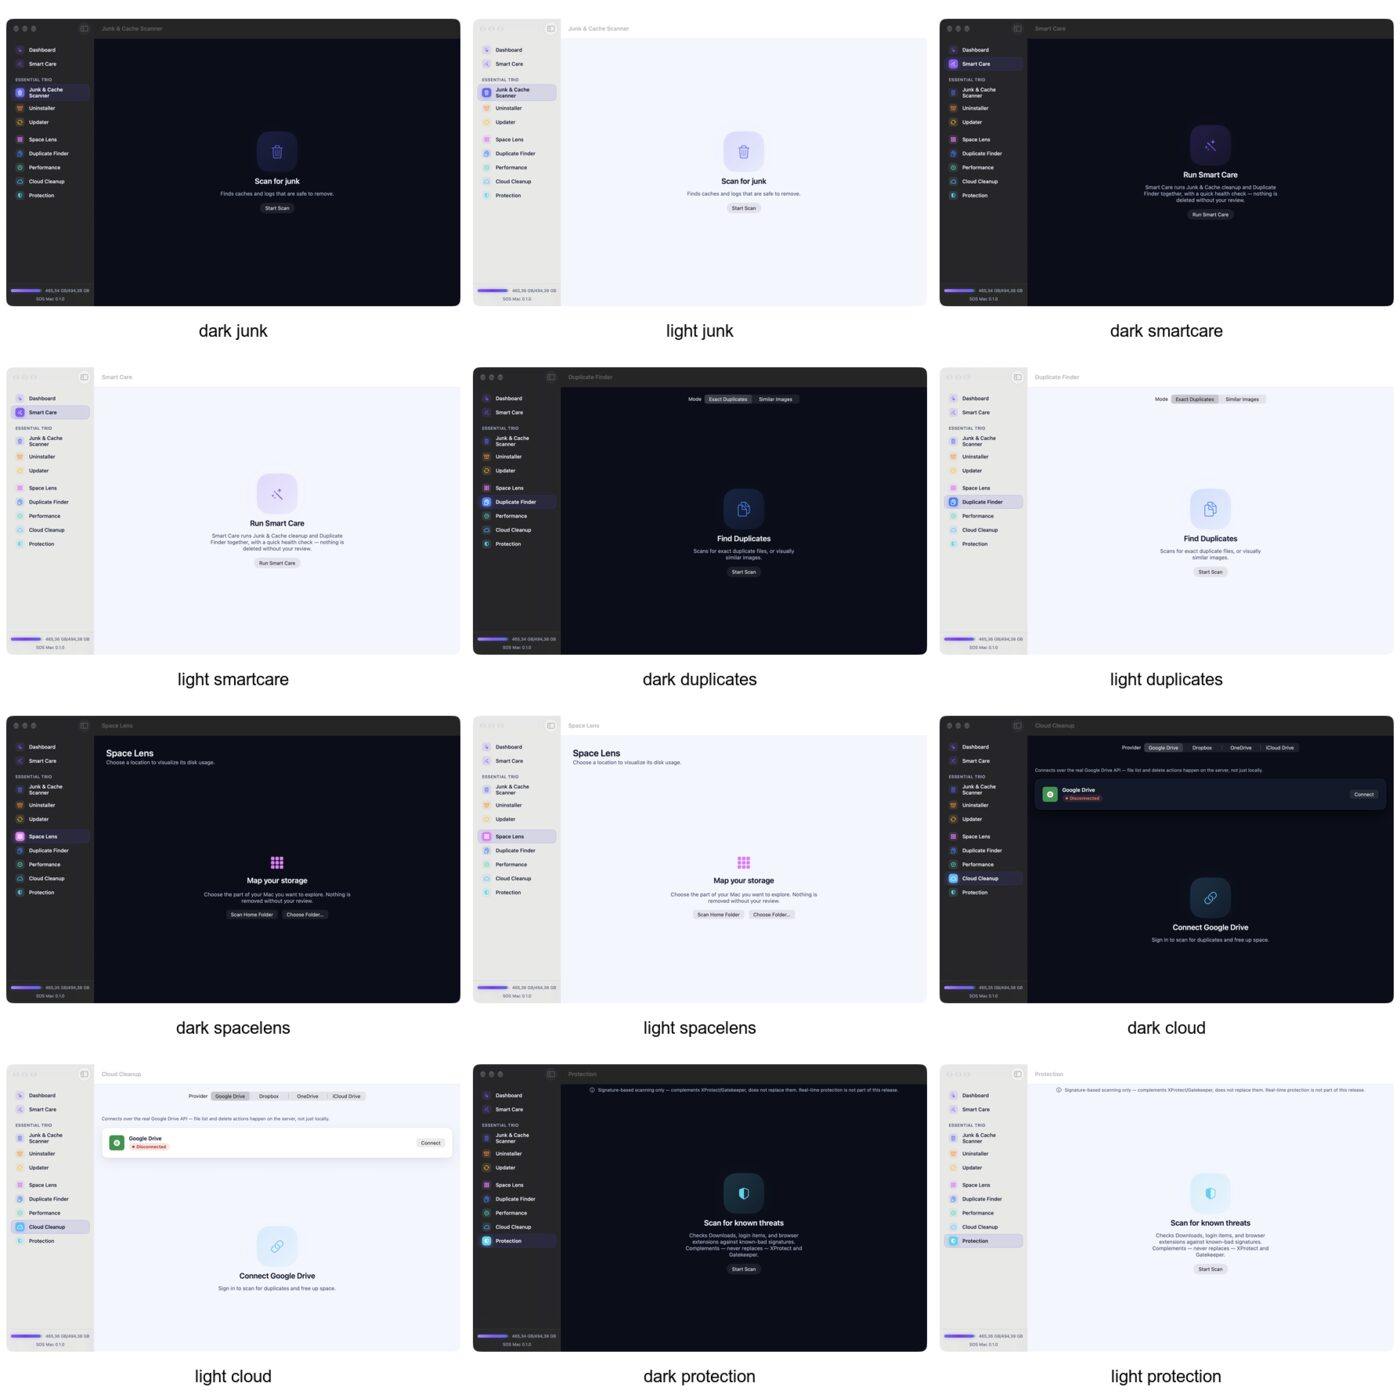
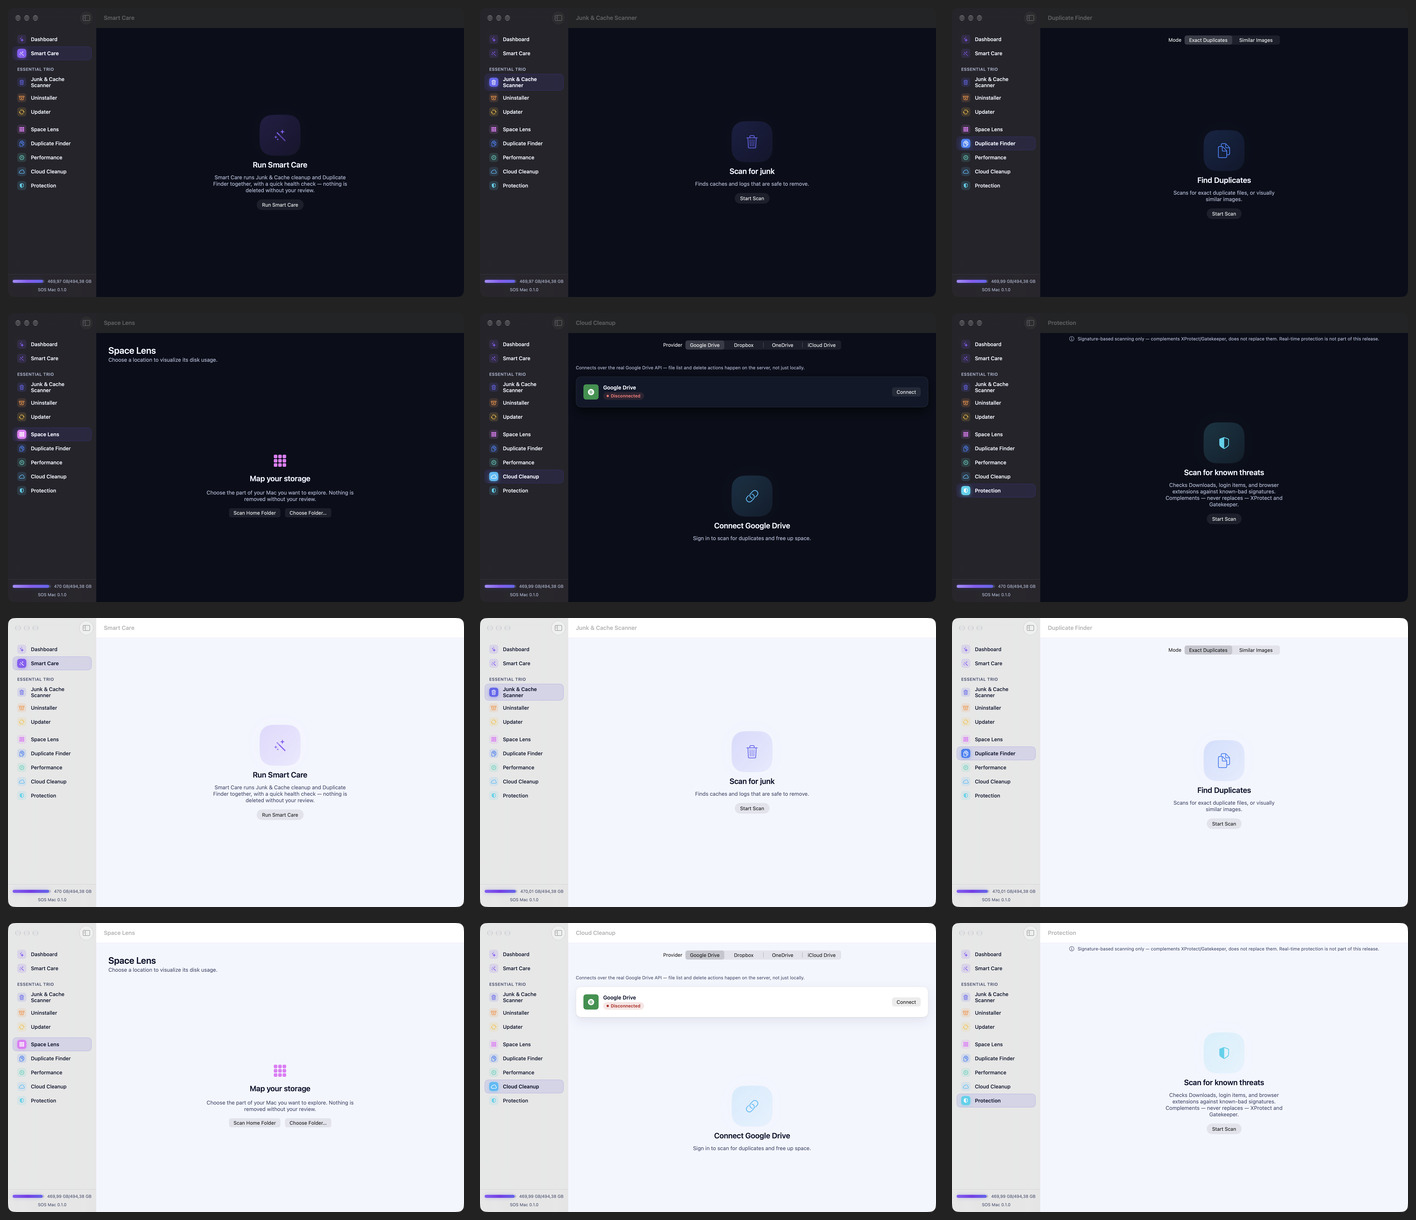
feat(design-system): apply the Designer's final Palette C light tokens (OD-1)
warning light #B45309 -> #A14A06 (>= 5.02:1 on every surface, X4 withdrawn),
treemapText light #1A1333 -> #141A33, light elevation ink #141A33.
Spec token table + Appendix C updated; appearance-resolution lock now pins
warning and treemapText; light gallery re-captured with the final values.

diff --git a/App/DesignSystem/Theme.swift b/App/DesignSystem/Theme.swift
@@ -5,9 +5,11 @@ import AppKit
 ///
 /// Source of truth: `docs/superpowers/specs/2026-11-26-ui-migration-palette-c-design.md`
 /// §2.3–2.8 and Appendix C (dark values from `docs/redesign/prototype/tokens.css`
-/// `data-palette="c"`; light values marked `[D]` in the spec are derived and still
-/// await the Designer's confirmation, OD-1). Structure follows the Designer's
-/// `docs/redesign/prototype/tokens/Theme.swift`.
+/// `data-palette="c"`; light values confirmed by the Designer's final Palette C
+/// light block, 2026-11-26 — OD-1 closed: `warning` light `#A14A06`,
+/// `treemapText` light `#141A33`, light elevation ink `#141A33`; every other
+/// light value matched the table). Structure follows the Designer's
+/// `tokens/Theme.swift`.
 ///
 /// Inside this type the names `Color`, `Gradient` and `Font` refer to the nested token
 /// namespaces, so SwiftUI's own types are always written `SwiftUI.Color` etc.
@@ -53,8 +55,8 @@ enum Theme {
         static let textTertiary = SwiftUI.Color.adaptive(light: SwiftUI.Color(hex: "#7C84A3"), dark: SwiftUI.Color(hex: "#6E7799"))
         /// --success · dark #34D399 · light #047857
         static let success = SwiftUI.Color.adaptive(light: SwiftUI.Color(hex: "#047857"), dark: SwiftUI.Color(hex: "#34D399"))
-        /// --warning · dark #F59E0B · light #B45309
-        static let warning = SwiftUI.Color.adaptive(light: SwiftUI.Color(hex: "#B45309"), dark: SwiftUI.Color(hex: "#F59E0B"))
+        /// --warning · dark #F59E0B · light #A14A06 (Designer final light; 5.02–6.00:1 on every surface)
+        static let warning = SwiftUI.Color.adaptive(light: SwiftUI.Color(hex: "#A14A06"), dark: SwiftUI.Color(hex: "#F59E0B"))
         /// --danger · dark #F87171 · light #B91C1C
         static let danger = SwiftUI.Color.adaptive(light: SwiftUI.Color(hex: "#B91C1C"), dark: SwiftUI.Color(hex: "#F87171"))
         /// --danger-fill · dark #B91C1C · light #B91C1C
@@ -75,8 +77,8 @@ enum Theme {
         static let treemap7 = SwiftUI.Color.adaptive(light: SwiftUI.Color(hex: "#E9E5FF"), dark: SwiftUI.Color(hex: "#353A6E"))
         /// --tm-8 · dark #2D2A55 · light #ECE7FA
         static let treemap8 = SwiftUI.Color.adaptive(light: SwiftUI.Color(hex: "#ECE7FA"), dark: SwiftUI.Color(hex: "#2D2A55"))
-        /// --tm-text · dark #F4F2FF · light #1A1333
-        static let treemapText = SwiftUI.Color.adaptive(light: SwiftUI.Color(hex: "#1A1333"), dark: SwiftUI.Color(hex: "#F4F2FF"))
+        /// --tm-text · dark #F4F2FF · light #141A33 (Designer final light)
+        static let treemapText = SwiftUI.Color.adaptive(light: SwiftUI.Color(hex: "#141A33"), dark: SwiftUI.Color(hex: "#F4F2FF"))
     }
 
     // MARK: - Derived tokens (spec §2.4)
@@ -219,7 +221,7 @@ enum Theme {
     }
 
     /// Two-layer soft elevation — apply via the `.elevation(_:)` view modifier, not by
-    /// reading these directly. Dark layers are black-based; light layers are `#1A1333`-based (spec §2.4).
+    /// reading these directly. Dark layers are black-based; light layers are `#141A33`-based (spec §2.4).
     enum Elevation {
         enum Level { case raised, float }
 
@@ -229,7 +231,7 @@ enum Theme {
             let y: CGFloat
         }
 
-        private static let lightInk = SwiftUI.Color(hex: "#1A1333")
+        private static let lightInk = SwiftUI.Color(hex: "#141A33")
 
         static func layers(for level: Level, isDark: Bool) -> (near: Layer, far: Layer) {
             switch (level, isDark) {

diff --git a/SOSMacTests/ThemeContrastTests.swift b/SOSMacTests/ThemeContrastTests.swift
@@ -68,6 +68,8 @@ struct ThemeContrastTests {
         ("bgBase", C.bgBase, "#F4F6FF", "#0A0E1A"),
         ("card", C.card, "#FFFFFF", "#111829"),
         ("textPrimary", C.textPrimary, "#141A33", "#EEF2FF"),
+        ("warning", C.warning, "#A14A06", "#F59E0B"),
+        ("treemapText", C.treemapText, "#141A33", "#F4F2FF"),
     ])
     func adaptiveResolvesPerAppearance(name: String, token: SwiftUI.Color, lightHex: String, darkHex: String) {
         func channels(_ hex: String) -> [Double] {

diff --git a/docs/superpowers/specs/2026-11-26-ui-migration-palette-c-design.md b/docs/superpowers/specs/2026-11-26-ui-migration-palette-c-design.md
@@ -8,7 +8,7 @@ Companion implementation plan: [`docs/superpowers/plans/2026-11-26-ui-migration-
 
 > **Tóm tắt (VN)**
 > - Spec này chuyển SOS Mac sang UI mới của Designer, dùng **Palette C "Midnight Glass"** (dark + light) thay cho Palette A. Giữ nguyên tên token `Theme.Color.*`, chỉ đổi giá trị.
-> - Palette C **light chưa đầy đủ** ở nguồn: report chỉ cho 12/28 token và prototype chưa từng render C light (chỉ có C dark). Các giá trị còn lại được suy ra theo quy tắc, gắn nhãn `[D]` và cần Designer/Phương chốt (§2.2, §10 OD-1).
+> - Palette C **light chưa đầy đủ** ở nguồn: report chỉ cho 12/28 token và prototype chưa từng render C light (chỉ có C dark). Các giá trị còn lại được suy ra theo quy tắc, gắn nhãn `[D]`; Designer đã chốt block light cuối cùng ngày 2026-11-26 (§2.2, §10 OD-1 đã đóng).
 > - Phạm vi: shell mới, component dùng chung, 10 màn + menu bar, và 4 nhóm sửa an toàn/dữ liệu (hộp xác nhận, khoá bản Keep ở Smart Care, ghi "Folder"/"At least…" ở Uninstaller, giữ kết quả khi rời màn). Không gồm việc engine trong `needs-engine-work.html`.
 > - Có **20 open decisions** cần Phương chốt (§10), mỗi mục kèm đề xuất. Hai mục Phương hỏi trực tiếp: OD-a (Similar Images) và OD-b (tổng size từng bộ duplicate).
 > - Đã verify: tương phản (tính lại bằng script, khớp report), API Apple (SDK macOS 27.0 trong Xcode 27.1 + docs Apple), `Theme.swift` của Designer typecheck cho macOS 14.
@@ -97,7 +97,7 @@ From `AGENTS.md`, `CLAUDE.md`, inventory §4.2:
 | `textSecondary` | `--text-2` | `#A5ADC8` | `#4A5273` | `[R][T]` | `[R]` | **8.63:1** · **7.09:1** |
 | `textTertiary` | `--text-3` | `#6E7799` | `#7C84A3` | `[R][T]` | `[R]` | **4.37:1** · **3.42:1** — see rule T3 |
 | `success` | `--success` | `#34D399` | `#047857` | `[R][T]` | `[R]` | 10.02:1 · 5.09:1 |
-| `warning` | `--warning` | `#F59E0B` | `#B45309` | `[R][T]` | `[R]` | 8.97:1 · 4.66:1 |
+| `warning` | `--warning` | `#F59E0B` | `#A14A06` | `[R][T]` | `[R]` (Designer final light, 2026-11-26) | 8.97:1 · **5.57:1** (≥ 5.02:1 on every surface, incl. `rowSelected`) |
 | `danger` | `--danger` | `#F87171` | `#B91C1C` | `[R][T]` | `[R]` | 6.96:1 · 6.00:1 |
 | `dangerFill` | `--danger-fill` | `#B91C1C` | `#B91C1C` | `[A]` | `[A]` (equals C light `danger`) | irreversible action fill; `onPrimary` on it **6.47:1** |
 | `treemap1` | `--tm-1` | `#4A3A9E` | `#DDD6FE` | `[A]` | `[A]` | labels `treemapText` |
@@ -108,7 +108,7 @@ From `AGENTS.md`, `CLAUDE.md`, inventory §4.2:
 | `treemap6` | `--tm-6` | `#3A4780` | `#D9E2FF` | `[A]` | `[A]` | |
 | `treemap7` | `--tm-7` | `#353A6E` | `#E9E5FF` | `[A]` | `[A]` | |
 | `treemap8` | `--tm-8` | `#2D2A55` | `#ECE7FA` | `[A]` | `[A]` | also the "smaller items" bucket |
-| `treemapText` | `--tm-text` | `#F4F2FF` | `#1A1333` | `[A]` | `[A]` | 6.3–12.1:1 on the dark ramp · 12.8–15.5:1 on the light ramp |
+| `treemapText` | `--tm-text` | `#F4F2FF` | `#141A33` | `[A]` | `[A]` (Designer final light, 2026-11-26) | 6.31–12.07:1 on the dark ramp · 12.3–14.9:1 on the light ramp |
 
 Treemap note: the dark labels measure 6.31:1 (`treemap4`) and 6.85:1 (`treemap3`), not "≥ 7:1" as the `tokens.css` comment says. They pass WCAG AA (4.5:1); the comment is corrected when the tokens are ported.
 
@@ -125,7 +125,7 @@ These are used throughout `styles.css`; without them the SwiftUI port would need
 | `Theme.Gradient.aurora` | `--gradient-aurora` | `#A5B4FC → #818CF8 → #6366F1` (120°) | `#6366F1 → #4F46E5 → #155E75` | `[T]` / `[D]` | Light by A's transformation (indigo → primary-deep → neon-cyan, light values) |
 | `Theme.Gradient.soft` | `--gradient-soft` | `#A78BFA → #8B5CF6 → #6366F1` (135°) | `#8B5CF6 → #7C3AED → #6366F1` | `[A]` | Not overridden for C (violet stops; OD-1d) |
 | `Theme.Color.treemapMix` | `--tm-mix`, `--tm-mix-pct` | `card` @ 42 % | `card` @ 24 % | `[D]` | Token reference instead of A's literal card colour |
-| `Theme.Elevation.raised`, `.float` | `--shadow-raised`, `--shadow-float` | A's black-based layers | A's `#1A1333`-based layers | `[A]` | Keep the existing two-layer `Elevation` shape |
+| `Theme.Elevation.raised`, `.float` | `--shadow-raised`, `--shadow-float` | A's black-based layers | `#141A33`-based layers (Designer final light, 2026-11-26) | `[A]` | Keep the existing two-layer `Elevation` shape |
 | `Theme.Glow.idleAlpha` | `--glow-alpha` | `0.32` | `0` | `[A]` | No glow in light |
 | `Theme.Glow.auroraAlpha` | `--aurora-alpha` | `0.16` | `0.07` | `[A]` | |
 
@@ -153,7 +153,7 @@ Same in both appearances. `ink` is the glyph colour on the tile.
 - **T1 — Neon is a verb, not a surface** (report §4). `neonCyan` = scanning / cleaning in progress; `neonLime` = done / selected-and-ready check; `neonMagenta` (violet in C) = Space Lens signature and selection ring. Never neon body text, never neon as a background fill. Neon is for status dots, icons, progress rings, numerals ≥ 18 pt and labels of ≤ 3 words at ≥ 13 pt semibold (report §4.3).
 - **T2 — `primaryDeep` is a fill, never text or an icon on a card** (3.06:1 on base, 2.81:1 on card in dark). Text and links use `primaryBright`.
 - **T3 — `textTertiary` is for large or bold text only.** It reaches **4.37:1 on `bgBase` in dark and 3.42:1 in light**, below the 4.5:1 body-text minimum, and it drops further on other surfaces (dark: 4.01 card, 3.92 elevated, 3.61 glass; light: 3.69 card, 3.30 sidebar). Allowed: text ≥ 18 pt, bold text, disabled text, placeholders, decorative marks. Never for body copy, captions, sizes or paths, and never on a selected row (2.95:1 dark, 3.08:1 light).
-- **T4 — The 11 px badge label is small text**, so its colour must reach 4.5:1 on its own tinted background. All badge colours do except `warning` in light (4.32:1) — see §2.7.
+- **T4 — The 11 px badge label is small text**, so its colour must reach 4.5:1 on its own tinted background. All badge colours do; `warning` light `#A14A06` reaches 5.11:1 on its 11 % tint (X4 withdrawn).
 - **T5 — Module hues are tile fills, not marks, in light mode.** As bare marks on the light base most fail 3:1 (Updater 1.55:1, Protection 1.68:1, Performance 1.73:1, Cloud 1.99:1, Uninstaller 2.10:1, Space Lens 2.28:1). State that must be seen (active step, busy dot, selected ring) uses a neon or status token, which darkens in light.
 - **T6 — Glow budget** (report §4): idle glow blur ≤ 12–16 pt at ≤ 35 % opacity (`Glow.idleAlpha` 0.32); full bloom only while an action runs; none in light; none under Reduce Motion.
 - **T7 — Byte and count formatting** uses the existing `ByteCountFormatter(.file)` (`CleanCore.ByteFormatter`) and plain integer counts. No new formatters.
@@ -167,7 +167,7 @@ Found while computing §2.3–2.6. Each is a one-line change in the SwiftUI port
 | X1 | Checked checkbox is filled `primary` in dark with a white check | white on `#818CF8` = **2.98:1** (under A it was 4.23:1) | Checked fill is `primaryDeep` in both appearances (white check 6.29:1) |
 | X2 | Checkbox outline is `textTertiary` | 3.08:1 on a selected row in light | Outline uses `textSecondary` (7.65:1 light, 7.93:1 dark on card; ≥ 5.8:1 on selected rows) |
 | X3 | "Known threats" tile is rose with a white glyph | 2.56:1 at the light end of the tile gradient | Rose tile uses ink `#140F26` (4.27:1) |
-| X4 | `warning` badge: `#B45309` label on an 11 % warning tint (light) | **4.32:1**, below 4.5:1 for 11 px text | In light the warning badge label uses `textPrimary`; icon/dot stay `warning`. (Inherited from A, not caused by C.) |
+| X4 | ~~`warning` badge: `#B45309` label on an 11 % warning tint (light)~~ | 4.32:1 with the old value | **Withdrawn** (Designer final light, 2026-11-26): `warning` light is now `#A14A06` — 5.11:1 on the tint, 5.02:1 worst case on a selected row — so the light warning badge keeps the `warning` label. |
 | X5 | "Memory in use" = wired + active + compressed (sample data) | The engine reports used = total − free, which reads ~99 % on an idle Mac (inventory D2) | The "in use" definition is fixed in the engine, or the copy changes — OD-11 |
 
 ### 2.8 Geometry, type, motion — as in the Designer's `Theme.swift`
@@ -303,7 +303,7 @@ States: default · selected (check) · skipped (failed) · `full`.
 
 Prefer stock macOS button styles (`bordered`, `borderedProminent`, `borderless`) tinted with tokens; a custom `ButtonStyle` is written only where stock cannot match (dock CTA, large CTA). The implementer records the choice in PR 4a.
 
-Badge: 20 tall, radius 5, 7 side padding, 11 pt semibold, optional 11 pt symbol. Background = colour at 16 % over `card` (light: 11 %); label in the colour (rule T4 / X4). Kinds: `safe` (success) · `caution` (warning) · `risky`, `threat` (danger) · `keep` (success, `lock` symbol) · `neutral` (`textSecondary`) · `accent` (`primaryBright`). The prototype's CSS also defines a `cyan` kind (`neonCyan` label) but no screen uses it; it is **not ported in v1**, because an 11 pt label is below T1's 13 pt floor for neon text — a cyan status is a cyan dot with a `textSecondary` label.
+Badge: 20 tall, radius 5, 7 side padding, 11 pt semibold, optional 11 pt symbol. Background = colour at 16 % over `card` (light: 11 %); label in the colour (rule T4; X4 withdrawn — the light warning badge keeps the `warning` label). Kinds: `safe` (success) · `caution` (warning) · `risky`, `threat` (danger) · `keep` (success, `lock` symbol) · `neutral` (`textSecondary`) · `accent` (`primaryBright`). The prototype's CSS also defines a `cyan` kind (`neonCyan` label) but no screen uses it; it is **not ported in v1**, because an 11 pt label is below T1's 13 pt floor for neon text — a cyan status is a cyan dot with a `textSecondary` label.
 
 ### 4.5 Review frame
 
@@ -770,7 +770,7 @@ Also out: localisation; menu-bar auto-launch; a per-module status or badge in th
 
 > **Status: Decided.** Phương reviewed this spec on 2026-11-26 and accepted every recommendation below (OD-1 → OD-18, OD-a, OD-b). The accepted option is now the decision, not a default. The original options and rationale are kept below for the record.
 >
-> **OD-1 note:** PR 1 implements with the derived `[D]` light values exactly as tabulated in §2.3–2.4. The Designer's final Palette C light values replace them before PR 1 merges into the integration branch (coordination via Zed).
+> **OD-1 note (closed 2026-11-26):** The Designer's final Palette C light block landed via Zed **before PR 1 merged**: `warning` light `#A14A06`, `treemapText` light `#141A33`, light elevation ink `#141A33`; every other light value matched §2.3–2.4 as tabulated. Those sections, §2.6–2.7 and Appendix C are updated accordingly, and X4 is withdrawn.
 
 | Item | Decision (Phương, 2026-11-26) |
 |---|---|
@@ -801,7 +801,7 @@ Each item: the question, the options, my recommendation, and the default I will 
 
 **OD-1 — Palette C light: approve the derived values.** The report gives 12 of 28 tokens for C light and the prototype has never rendered C light (§2.2).
 Options: (1) report's C light + the `[D]` values of §2.3–2.4 — an indigo light theme; (2) what the prototype shows for C + light today, which is Palette A light (lavender-white).
-Recommendation: **(1)**, and ask the Designer to add a `data-palette="c"][data-theme="light"]` block to `tokens.css` and render the three light screens before PR 1 merges. Sub-points: **1a** sidebar `#EEF2FF`; **1b** hairline recipe (text token + A's alpha); **1c** row tints and aurora gradient in light; **1d** `gradientSoft` keeps A's violet stops in both appearances (re-tune or keep); **1e** the four contrast corrections X1–X4 (§2.7); **1f** type deltas 26 / 10 / 10 pt (§2.8, informational).
+Recommendation: **(1)**, and ask the Designer to add a `data-palette="c"][data-theme="light"]` block to `tokens.css` and render the three light screens before PR 1 merges. Sub-points: **1a** sidebar `#EEF2FF`; **1b** hairline recipe (text token + A's alpha); **1c** row tints and aurora gradient in light; **1d** `gradientSoft` keeps A's violet stops in both appearances (re-tune or keep); **1e** the contrast corrections X1–X4 (§2.7; X4 later withdrawn by the Designer's final light values); **1f** type deltas 26 / 10 / 10 pt (§2.8, informational).
 Default: (1) exactly as tabulated. Blocks: PR 1.
 
 **OD-2 — Toolbar: system toolbar or the prototype's in-content header?**
@@ -984,8 +984,8 @@ Generated from one table of hex values so the token block and §2.3 cannot drift
         static let textTertiary = SwiftUI.Color.adaptive(light: SwiftUI.Color(hex: "#7C84A3"), dark: SwiftUI.Color(hex: "#6E7799"))
         /// --success · dark #34D399 · light #047857
         static let success = SwiftUI.Color.adaptive(light: SwiftUI.Color(hex: "#047857"), dark: SwiftUI.Color(hex: "#34D399"))
-        /// --warning · dark #F59E0B · light #B45309
-        static let warning = SwiftUI.Color.adaptive(light: SwiftUI.Color(hex: "#B45309"), dark: SwiftUI.Color(hex: "#F59E0B"))
+        /// --warning · dark #F59E0B · light #A14A06
+        static let warning = SwiftUI.Color.adaptive(light: SwiftUI.Color(hex: "#A14A06"), dark: SwiftUI.Color(hex: "#F59E0B"))
         /// --danger · dark #F87171 · light #B91C1C
         static let danger = SwiftUI.Color.adaptive(light: SwiftUI.Color(hex: "#B91C1C"), dark: SwiftUI.Color(hex: "#F87171"))
         /// --danger-fill · dark #B91C1C · light #B91C1C
@@ -1006,8 +1006,8 @@ Generated from one table of hex values so the token block and §2.3 cannot drift
         static let treemap7 = SwiftUI.Color.adaptive(light: SwiftUI.Color(hex: "#E9E5FF"), dark: SwiftUI.Color(hex: "#353A6E"))
         /// --tm-8 · dark #2D2A55 · light #ECE7FA
         static let treemap8 = SwiftUI.Color.adaptive(light: SwiftUI.Color(hex: "#ECE7FA"), dark: SwiftUI.Color(hex: "#2D2A55"))
-        /// --tm-text · dark #F4F2FF · light #1A1333
-        static let treemapText = SwiftUI.Color.adaptive(light: SwiftUI.Color(hex: "#1A1333"), dark: SwiftUI.Color(hex: "#F4F2FF"))```
+        /// --tm-text · dark #F4F2FF · light #141A33
+        static let treemapText = SwiftUI.Color.adaptive(light: SwiftUI.Color(hex: "#141A33"), dark: SwiftUI.Color(hex: "#F4F2FF"))```
 
 **C.2 Proposed additions (§2.4)**
 
